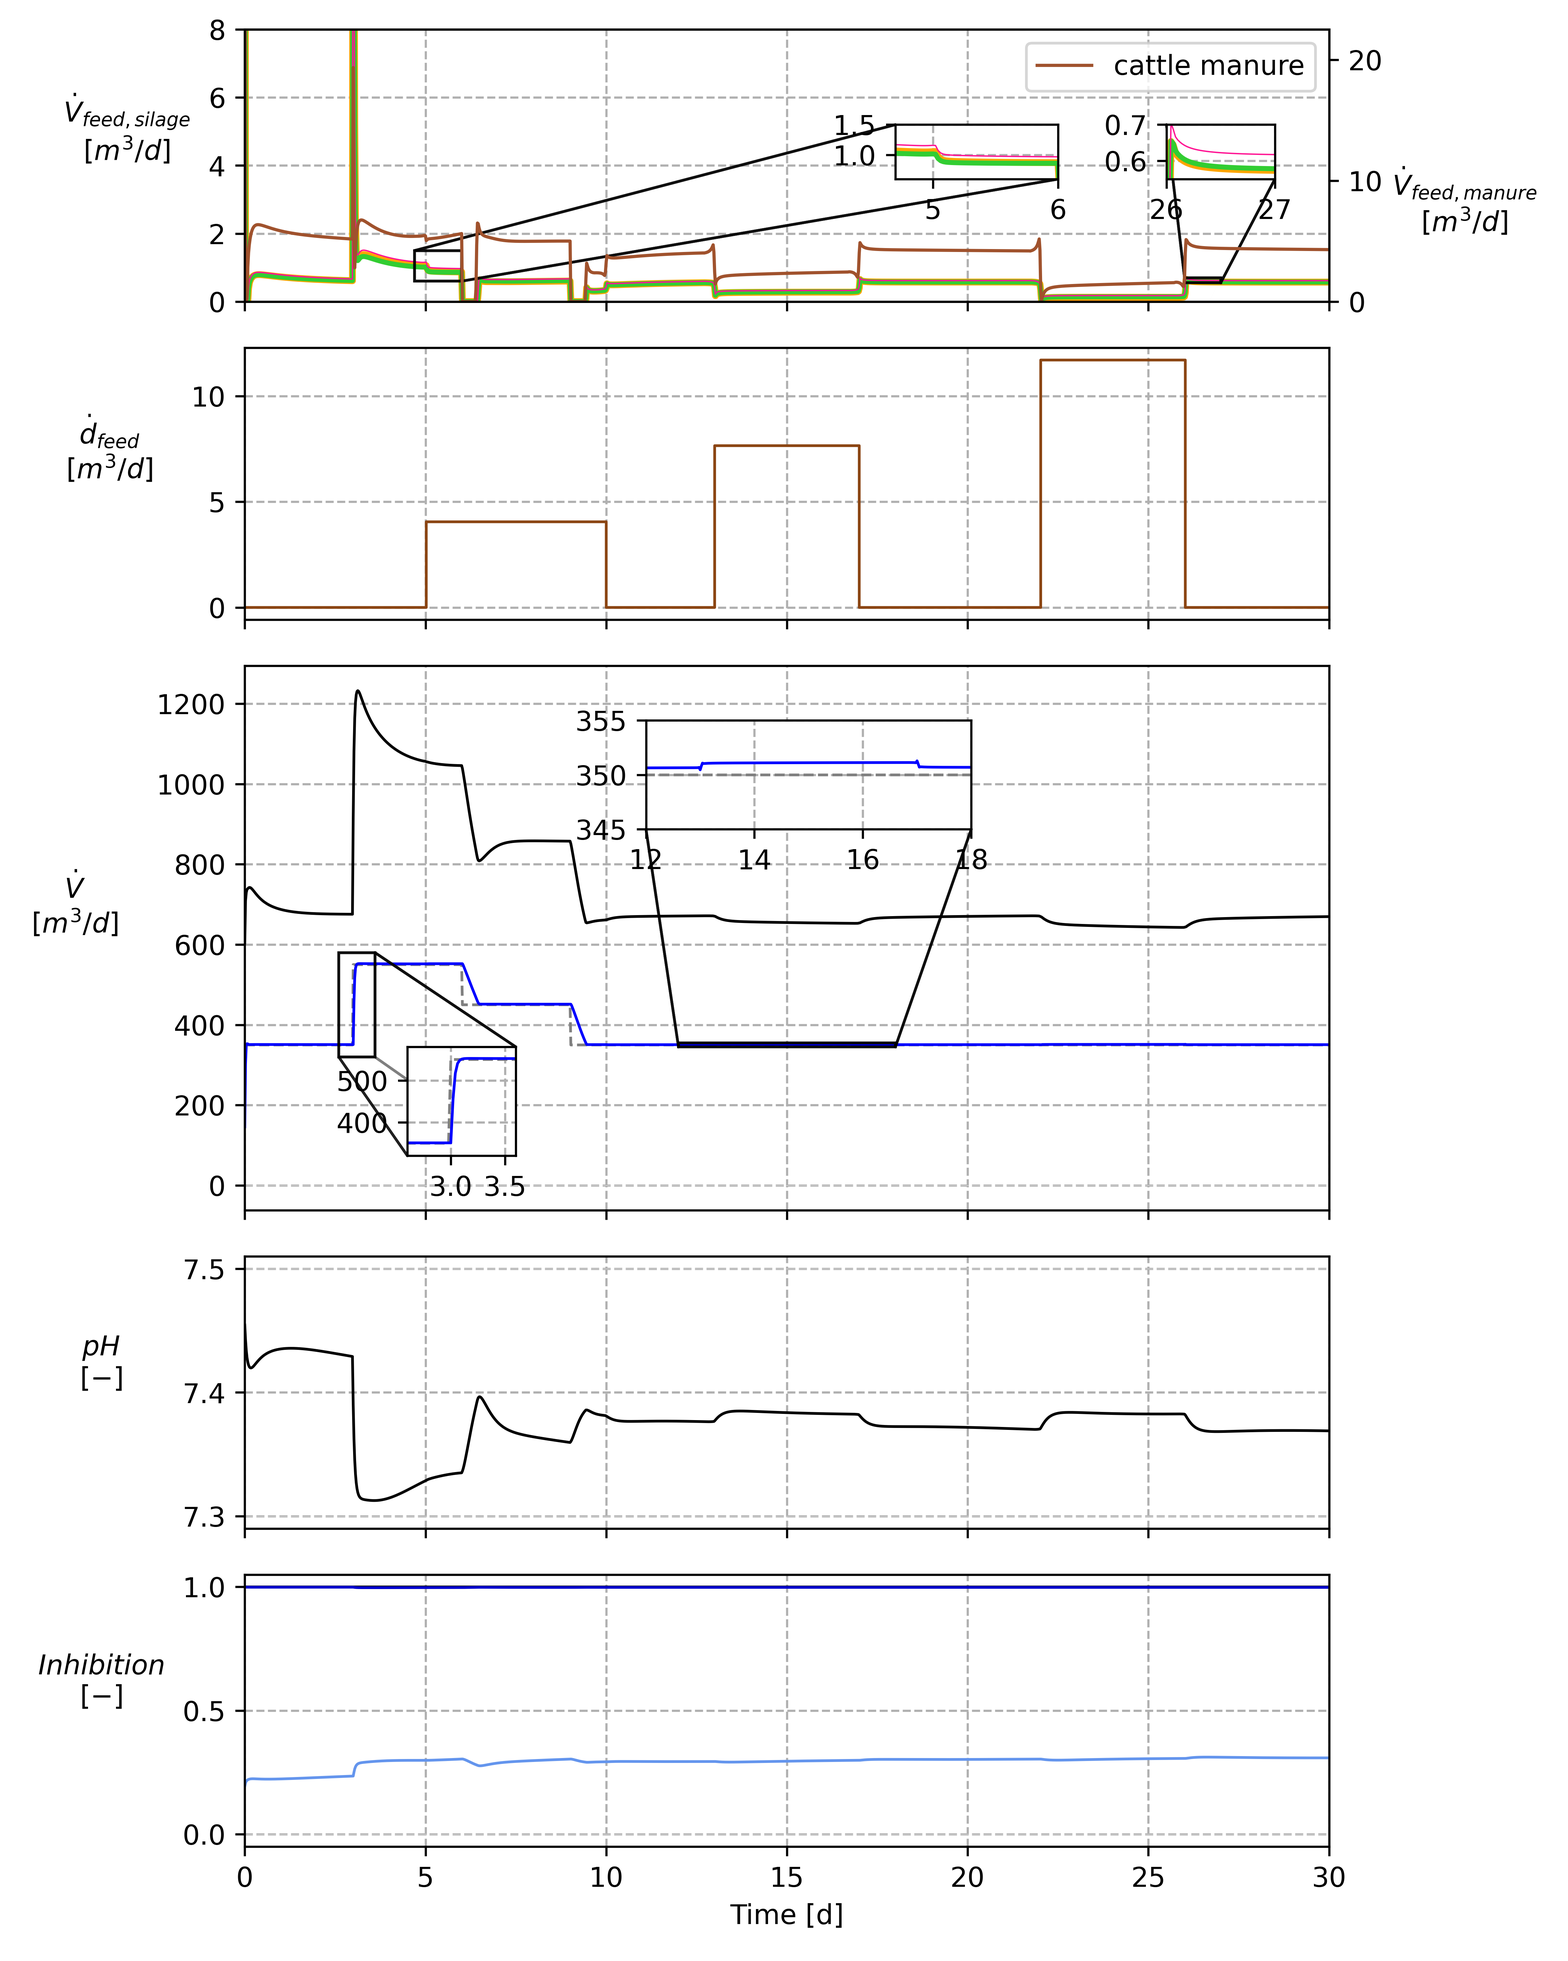
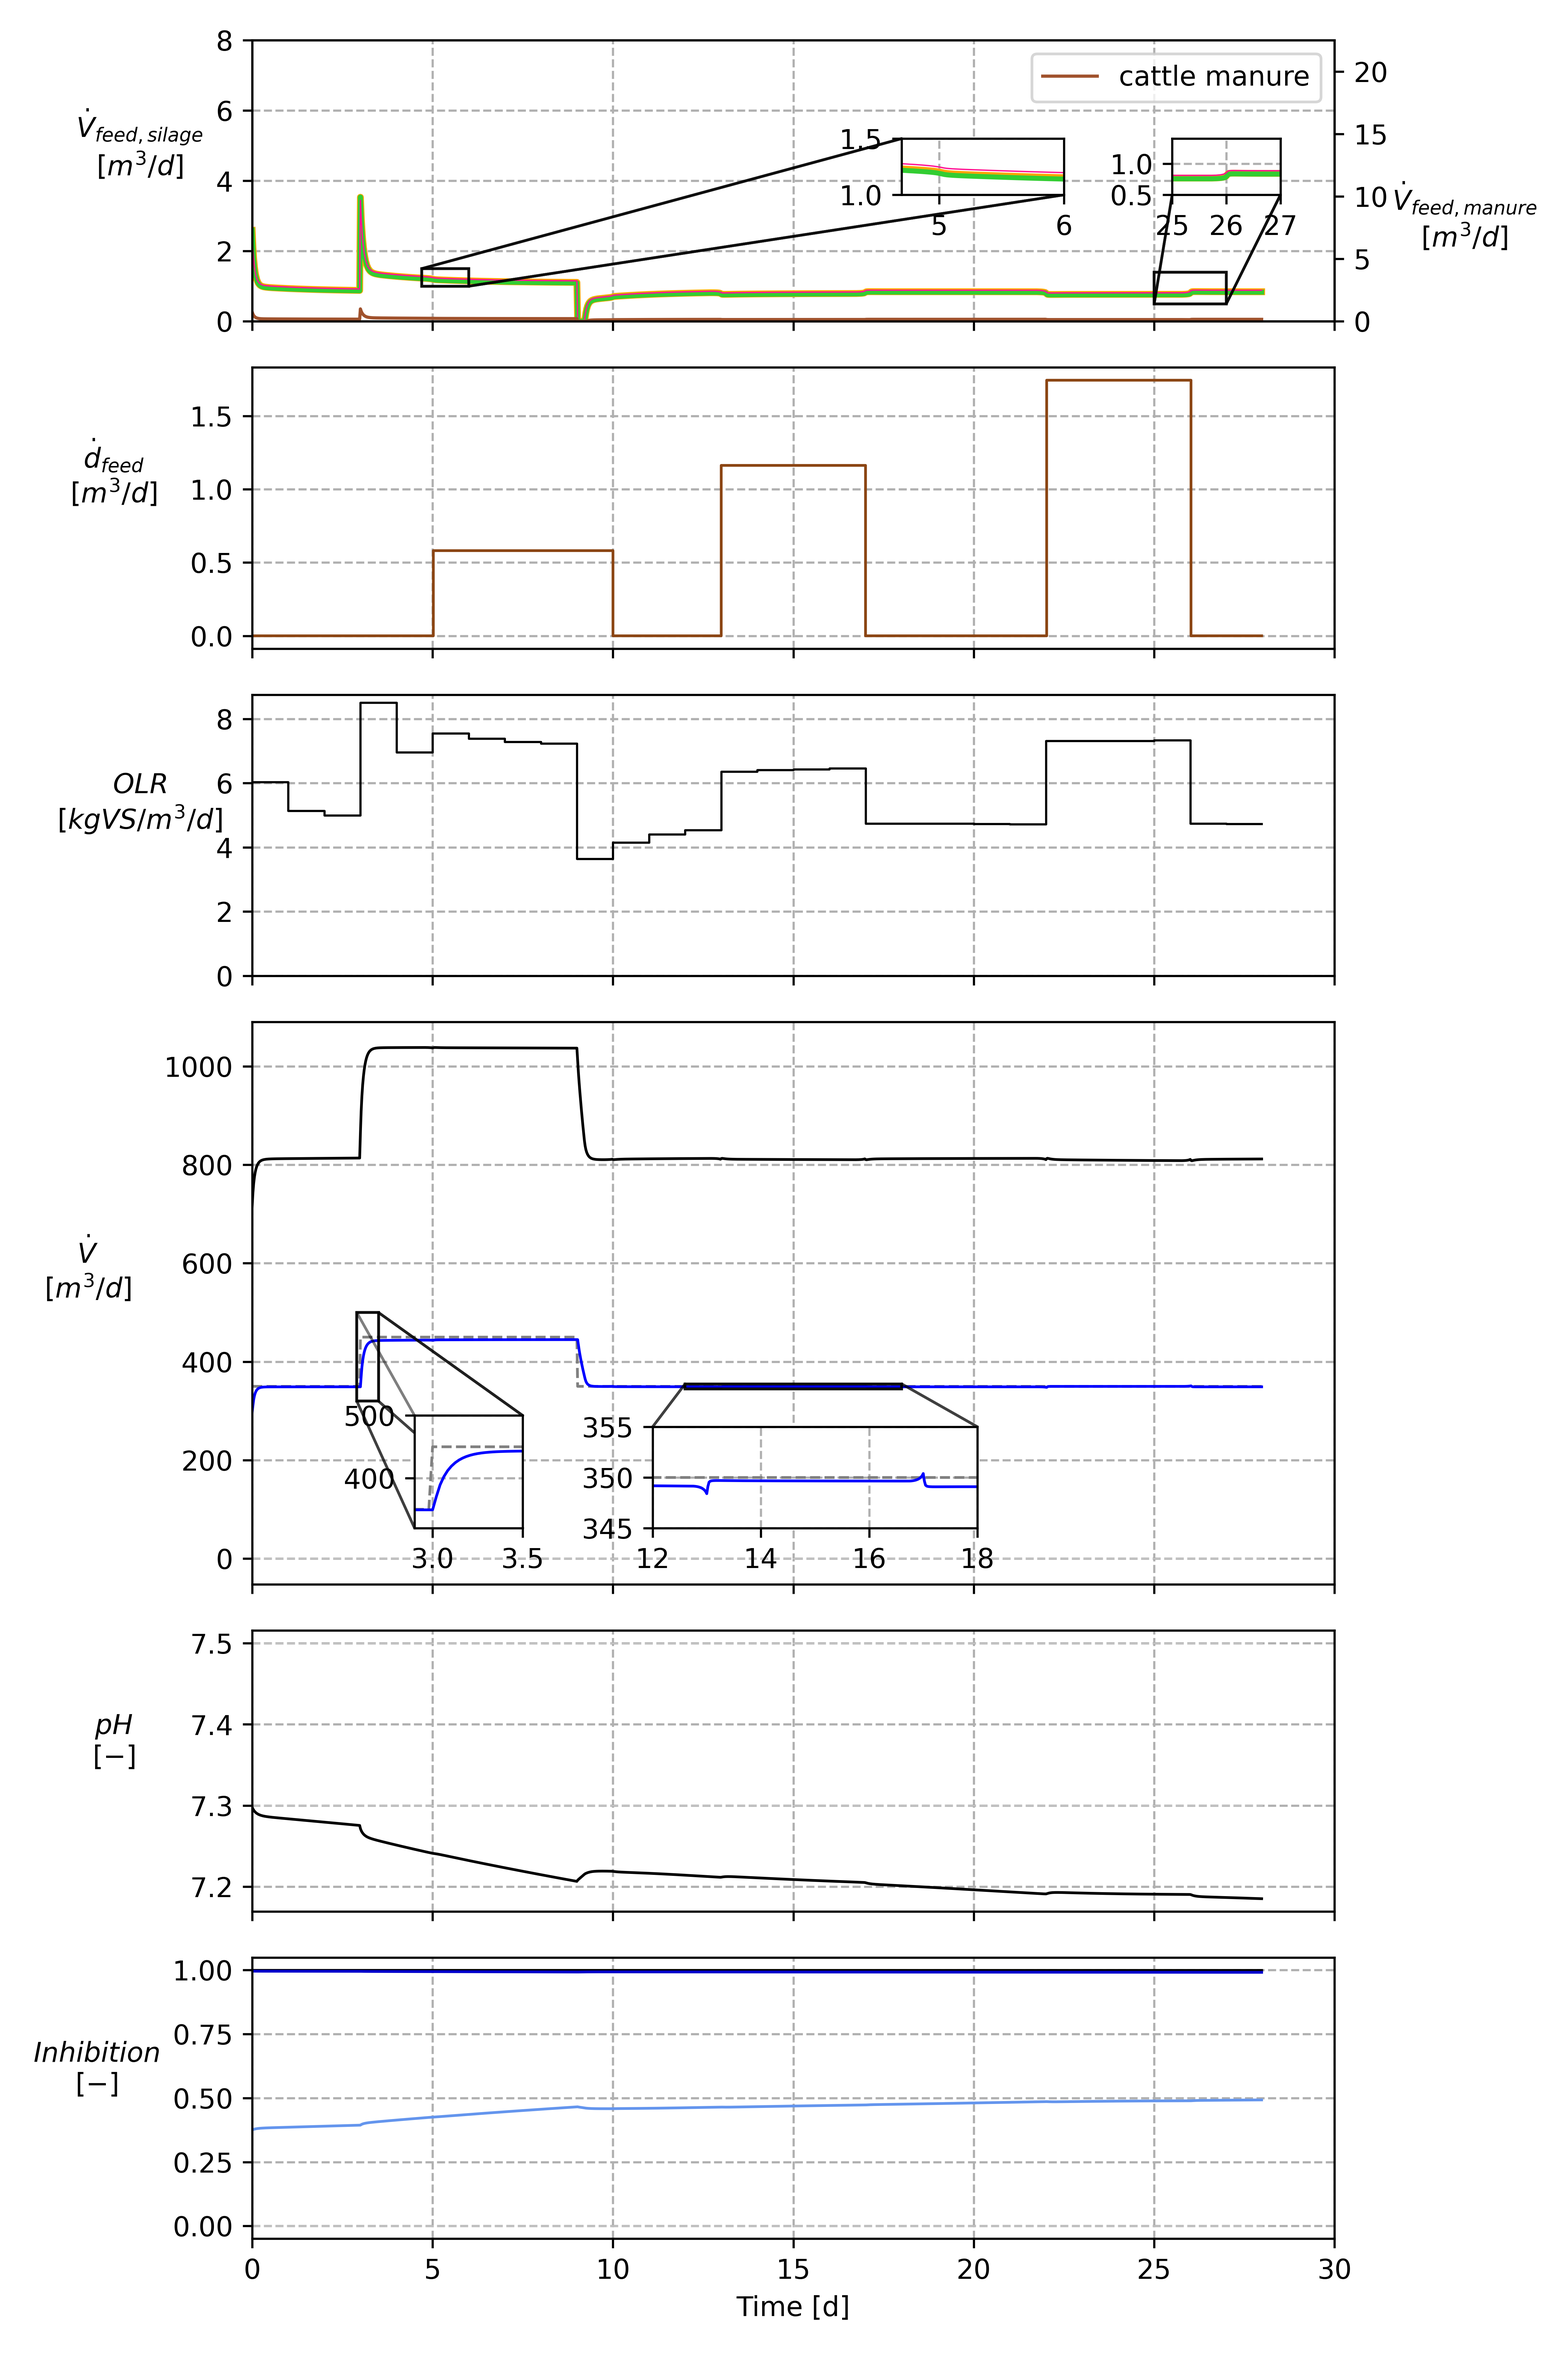
use methane production as norm volume flow for scenario 1

diff --git a/ad_meal_prep_control/plot_generation/plot_scenario_1b.py b/ad_meal_prep_control/plot_generation/plot_scenario_1b.py
@@ -7,8 +7,8 @@ from ad_meal_prep_control.postprocessing import (
 import sys
 from ad_meal_prep_control.plot_generation.Controller_output_plotting.Output_Scenario_1b import controller_plotting_1b
 
-scenario_names = ["Scenario_1b_quadratic_nominal_feedback_mismatch_2std_3tsap"]
-# scenario_names = ["Scenario_1b_quadratic_robust_feedback_mismatch_1.5std_3tsap"]
+# scenario_names = ["Scenario_1b_quadratic_nominal_feedback_mismatch_2std_3tsap"]
+scenario_names = ["Scenario_1b_quadratic_robust_feedback_mismatch_1.5std_3tsap"]
 plot_save_name = scenario_names
 
 try:
@@ -42,13 +42,13 @@ for scenario_name, plot_save_name in zip(scenario_names, plot_save_name):
             (
                 r"$\dot V$" + "\n" + r"$[m^3/d]$",
                 {
-                    "v_ch4_dot_tank_in_setpoint": PlotVarProperty(
+                    "v_ch4_dot_AD_setpoint": PlotVarProperty(
                         mpl_properties=MPLProperties(
                             color="grey", linewidth=1, linestyle='dashed'
                         ),
                         label=r"Reference ($\dot V_{CH_4}$)",
                     ),
-                    "v_ch4_dot_tank_in": PlotVarProperty(
+                    "v_dot_ch4_AD_norm_condition": PlotVarProperty(
                         mpl_properties=MPLProperties(
                             color='blue',
                             linewidth=1,
@@ -100,39 +100,39 @@ for scenario_name, plot_save_name in zip(scenario_names, plot_save_name):
         plot_save_name=plot_save_name,
         constraints=[
             # adapt ylim of plots by adding invisible horizontal lines:
-            Constraint(value=0, ax_idx=2, color="white"),  # gas production lower bound
-            Constraint(value=7.3, ax_idx=3, color="white"),  # pH lower bound
-            Constraint(value=7.5, ax_idx=3, color="white"),  # pH upper bound
-            Constraint(value=0, ax_idx=4, color="white"),  # inhibtion lower bound
+            Constraint(value=0, ax_idx=3, color="white"),  # gas production lower bound
+            Constraint(value=7.3, ax_idx=4, color="white"),  # pH lower bound
+            Constraint(value=7.5, ax_idx=4, color="white"),  # pH upper bound
+            Constraint(value=0, ax_idx=5, color="white"),  # inhibtion lower bound
         ],
-        time_range=(0.0, 30.0),
         dpi=dpi,
         show_plot=show_plot,
-        height_ratios=[1, 1, 2, 1, 1],
+        height_ratios=[1, 1, 1, 2, 1, 1],
         input_inset_axes=[
             {
                 "days": (4.7, 6),
-                "ylimit": (0.4, 1.2),
+                "ylimit": (1, 1.5),
                 "inset_axis_specs": (0.6, 0.45, 0.15, 0.2),
             },
             {
-                "days": (26, 27),
-                "ylimit": (0.55, 0.8),
+                "days": (25, 27),
+                "ylimit": (0.5, 1.4),
                 "inset_axis_specs": (0.85, 0.45, 0.1, 0.2),
             }],
         other_inset_axes=[
             {
-                "plot_idx": 2,
-                "days": (2.6, 3.6),
-                "ylimit": (320, 580),
+                "plot_idx": 3,
+                "days": (2.9, 3.5),
+                "ylimit": (320, 500),
                 "inset_axis_specs": (0.15, 0.1, 0.1, 0.2),
             },
             {
-                "plot_idx": 2,
+                "plot_idx": 3,
                 "days": (12, 18),
-                "ylimit": (390, 410),
-                "inset_axis_specs": (0.37, 0.15, 0.3, 0.2),
+                "ylimit": (345, 355),
+                "inset_axis_specs": (0.37, 0.1, 0.3, 0.18),
             },
         ],
+        plot_olr=True,
     )
-controller_plotting_1b(scenario_names)
+#controller_plotting_1b(scenario_names)

diff --git a/ad_meal_prep_control/scenarios/scenario_1b_robust.py b/ad_meal_prep_control/scenarios/scenario_1b_robust.py
@@ -9,25 +9,27 @@ from ad_meal_prep_control.utils import (
 import numpy as np
 import math
 
-lterm = "10*((model.aux['v_ch4_dot_tank_in'] - model.tvp['v_ch4_dot_tank_in_setpoint'])/model.tvp['v_ch4_dot_tank_in_setpoint'])**2"
-mterm = "100*((model.aux['v_ch4_dot_tank_in'] - model.tvp['v_ch4_dot_tank_in_setpoint'])/model.tvp['v_ch4_dot_tank_in_setpoint'])**2"
+c_1 = 1e3
+c_2 = 0
+c_3 = 1e-1
+lterm = f"{c_1}*((model.aux['v_dot_ch4_AD_norm_condition'] - model.tvp['v_ch4_dot_AD_setpoint'])/model.tvp['v_ch4_dot_AD_setpoint'])**2"
+mterm = f"{c_2}*((model.aux['v_dot_ch4_AD_norm_condition'] - model.tvp['v_ch4_dot_AD_setpoint'])/model.tvp['v_ch4_dot_AD_setpoint'])**2"
 
 cost_func = CostFunction(lterm=lterm, mterm=mterm)
 
 # user input:
-n_days_mpc = 30         # length of simulation [d]
+n_days_mpc = 28         # length of simulation [d]
 n_std_dev = 1.5         # used for plant and controller
 t_stp_ahead_pred = 3    # for controller plotting
-setpoints = np.array([350.0, 550.0, 450.0, 350.0])
+substrate_cost_formulation = "quadratic"  # linear or quadratic
 
 ch4_set_point_function = SetpointFunction(
-    setpoints=setpoints,
+    setpoints=np.array([350.0, 450.0, 450.0, 350.0]),
     time_points=np.array([3, 6, 9]),
 )
 
-
 rterms = [
-    f"0.1*(model.u['u_norm'][{i}] - mpc.u_prev['u_norm'][{i}])**2" for i in range(4)
+    f"{c_3}*(model.u['u_norm'][{i}] - mpc.u_prev['u_norm'][{i}])**2" for i in range(4)
 ]
 rterm = " + ".join(rterms)
 
@@ -36,7 +38,7 @@ controller_params = ControllerParams(
     mpc_n_robust=1,
     num_std_devs=n_std_dev,
     cost_func=cost_func,
-    substrate_cost_formulation="quadratic",
+    substrate_cost_formulation=substrate_cost_formulation,
     ch4_set_point_function=ch4_set_point_function,
     rterm=rterm,
 )
@@ -60,7 +62,7 @@ kwargs = {
     "feedback": True,
     "mismatch": True,
     "t_stp_ahead_pred": t_stp_ahead_pred,
-    "name": f"Scenario_1b_quadratic_robust_feedback_mismatch_{n_std_dev}std_{t_stp_ahead_pred}tsap",
+    "name": f"Scenario_1b_{substrate_cost_formulation}_robust_feedback_mismatch_{n_std_dev}std_{t_stp_ahead_pred}tsap",
 }
 
 scenario = ScenarioFactory().create_scenario(

diff --git a/ad_meal_prep_control/simulation.py b/ad_meal_prep_control/simulation.py
@@ -622,7 +622,7 @@ class Simulation:
 
     def _run_mpc(self):
         # Initialize variables
-        vg_ch4_model = self._mpc.data.prediction(('_aux', 'v_ch4_dot_tank_in'))[0][0]
+        vg_ch4_model = self._mpc.data.prediction(('_aux', 'v_dot_ch4_AD_norm_condition'))[0][0]
         vg_model = self._mpc.data.prediction(('_aux', 'y_1'))[0][0]
         ph_model = self._mpc.data.prediction(('_aux', 'y_4'))[0][0]
 
@@ -689,7 +689,7 @@ class Simulation:
                 if self.scenario.feedback:
                     # Prediction of MPC using model
                     vg_ch4_model = np.column_stack((vg_ch4_model, self._mpc.data.prediction(
-                        ('_aux', 'v_ch4_dot_tank_in'))[0][self.scenario.t_stp_ahead_pred]))
+                        ('_aux', 'v_dot_ch4_AD_norm_condition'))[0][self.scenario.t_stp_ahead_pred]))
                     vg_model = np.column_stack((vg_model, self._mpc.data.prediction(
                         ('_aux', 'y_1'))[0][self.scenario.t_stp_ahead_pred]))
                     ph_model = np.column_stack((ph_model, self._mpc.data.prediction(
@@ -819,7 +819,7 @@ class Simulation:
                     np.savetxt(f'./results/Predicted Data {self.scenario.name}.csv', predicted_data)
 
             if not self.scenario.feedback:
-                vg_ch4_model = self._simulator_plant.data['_aux', 'v_ch4_dot_tank_in']
+                vg_ch4_model = self._simulator_plant.data['_aux', 'v_dot_ch4_AD_norm_condition']
                 vg_model = self._simulator_plant.data['_aux', 'y_1']
                 ph_model = self._simulator_plant.data['_aux', 'y_4']
 

diff --git a/ad_meal_prep_control/postprocessing.py b/ad_meal_prep_control/postprocessing.py
@@ -452,8 +452,9 @@ class PostProcessing:
                             **plt_kwargs,
                         )
                         ax.set_ylim(0,)
-                        # Set y-ticks to show all integer values up to the maximum value
-                        ax.set_yticks(np.arange(0, np.ceil(max(self.olr_daily)) + 1, 1))
+                        if max(self.olr_daily) < 6:
+                            # Set y-ticks to show all integer values up to the maximum value
+                            ax.set_yticks(np.arange(0, np.ceil(max(self.olr_daily)) + 1, 1))
 
                     # plot auxiliary variables:
                     elif plot_var_name[0] != "u" and plot_var_name[0] != "x":
@@ -609,9 +610,10 @@ class PostProcessing:
         if time_range is not None:
             plt.setp(axes, xlim=time_range)
 
-        plt.xlim(0, np.ceil(self._scenario_meta_data["n_days_mpc"]/5)*5)  # integer multiples of 5
-        fig.set_size_inches(w=8, h=2 * len(axes))
+        # __SH: set xticks for time axis at integer multiples of 5:
+        axes[-1].set_xlim(0, np.ceil(self._scenario_meta_data["n_days_mpc"]/5)*5)
 
+        fig.set_size_inches(w=8, h=2 * len(axes))
         fig.tight_layout()
         if plot_save_name is not None:
             fig.savefig(

diff --git a/ad_meal_prep_control/models/adm1_r3_frac_norm.py b/ad_meal_prep_control/models/adm1_r3_frac_norm.py
@@ -421,7 +421,7 @@ def adm1_r3_frac_norm(
     for i in range(8):
         y.append(model.set_expression(f"y_{i+1}", Ty[i] * y_norm[i]))
 
-    model.set_variable(var_type="_tvp", var_name="v_ch4_dot_tank_in_setpoint")
+    model.set_variable(var_type="_tvp", var_name="v_ch4_dot_AD_setpoint")
     model.set_variable(var_type="_tvp", var_name="dummy_tvp")
 
     p_h2o_gas_storage = vapour_pressure_h2o(T_gas_storage)
@@ -436,6 +436,12 @@ def adm1_r3_frac_norm(
     v_ch4_dot_tank_in = model.set_expression(
         f"v_ch4_dot_tank_in",
         v_total_dot_tank_in * y_norm[1] * Ty[1] / p_gas_total_fermenter,  # temperature correction already considered for total inflowing vol flow
+    )
+
+    # __SH: get norm vol flow of CH4 from AD:
+    v_dot_ch4_AD_norm_condition = model.set_expression(
+        f"v_dot_ch4_AD_norm_condition",
+        y_norm[0] * Ty[0] * y_norm[1] * Ty[1] / p_norm * T_norm / T,  # __SH: p_gas_total_fermenter cancels out
     )
 
     # define auxiliary variables for GS ODEs:

diff --git a/tests/test_total_computing_time.py b/tests/test_total_computing_time.py
@@ -17,8 +17,10 @@ def read_computation_times(file_path):
 
     return f"{int(hours):02}:{int(minutes):02}:{int(seconds):02}"
 
-my_scenario = '2c'  # '2a_robust', '2a_nominal', '2c'
-if my_scenario == '2a_nominal':
+my_scenario = '1b'  # '1b' '2a_robust', '2a_nominal', '2c'
+if my_scenario == '1b':
+    scen_name = 'Scenario_1b_quadratic_robust_feedback_mismatch_1.5std_3tsap'
+elif my_scenario == '2a_nominal':
     scen_name = 'Scenario_2a_dynamic_nominal_feedback_mismatch_2std_8tsap'
 elif my_scenario == '2a_robust':
     scen_name = 'Scenario_2a_dynamic_robust_feedback_mismatch_2std_8tsap'
@@ -28,4 +30,4 @@ elif my_scenario == '2c':
 my_path = '../ad_meal_prep_control/scenarios/results/'
 file_name = scen_name + '_mpc_computation_times_mikro_secs.txt'
 test_result = read_computation_times(my_path + file_name)
-print(test_result)
+print('\ncomputation time was: ' + test_result)

diff --git a/ad_meal_prep_control/mpc.py b/ad_meal_prep_control/mpc.py
@@ -151,7 +151,7 @@ def mpc_setup(
                 tvp_template["_tvp", k, "theta"] = theta
 
             if ch4_set_point_function is not None:
-                tvp_template["_tvp", :, "v_ch4_dot_tank_in_setpoint"] = (
+                tvp_template["_tvp", :, "v_ch4_dot_AD_setpoint"] = (
                     ch4_set_point_function.get_current_setpoint(t_now)
                 )
 
@@ -165,7 +165,7 @@ def mpc_setup(
             for k in range(n_horizon + 1):
                 tvp_template["_tvp", k, "theta"] = theta
             if ch4_set_point_function is not None:
-                tvp_template["_tvp", :, "v_ch4_dot_tank_in_setpoint"] = (
+                tvp_template["_tvp", :, "v_ch4_dot_AD_setpoint"] = (
                     ch4_set_point_function.get_current_setpoint(t_now)
                 )
 
